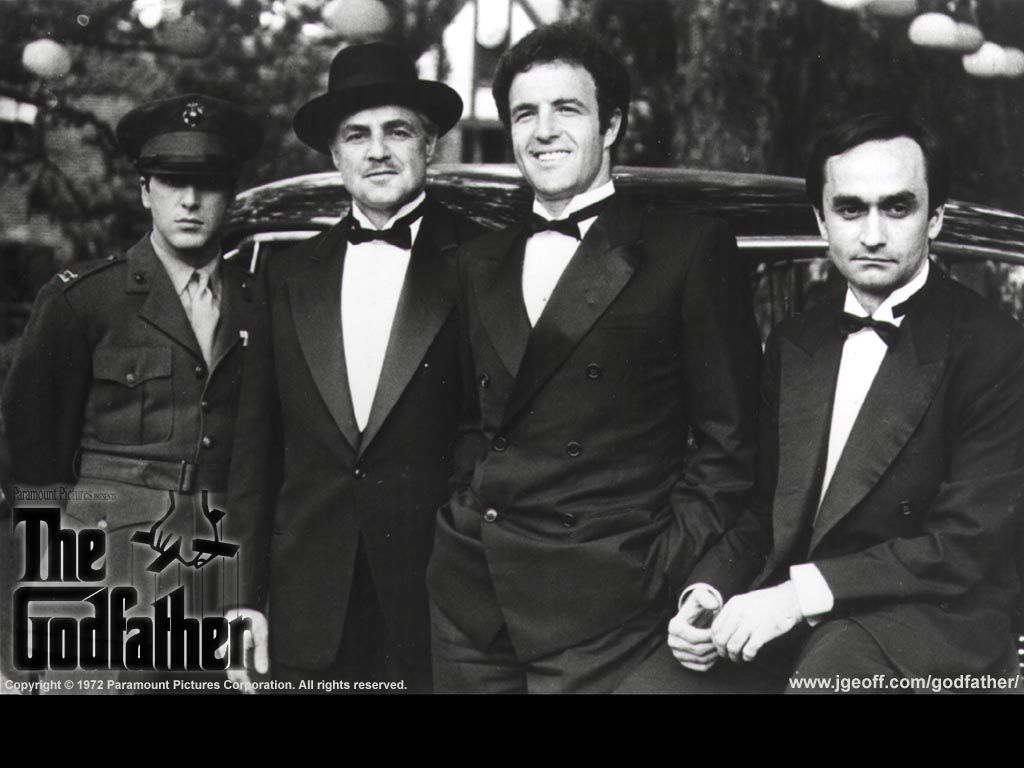
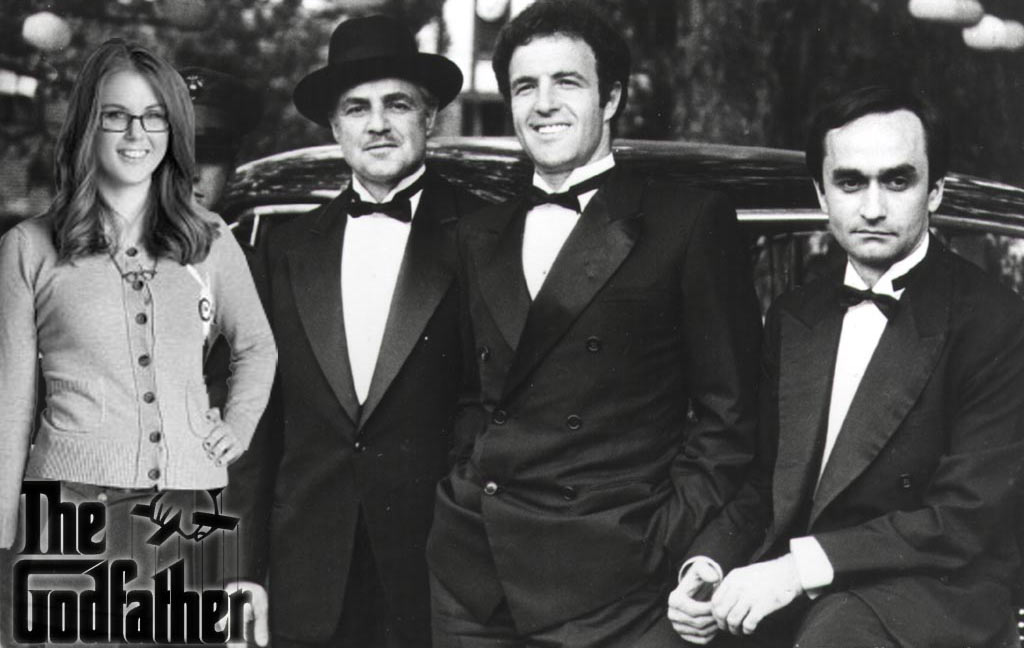
oh boy

diff --git a/index.html b/index.html
@@ -85,10 +85,30 @@
       <img src="img/php.jpeg"  style="position: absolute; width: 278px; top: 40px; right: 265px; -webkit-transform:rotate(-3deg);">
       <img src="img/django.jpeg"  style="position: absolute; width: 200px; top: 410px; right: 530px; -webkit-transform:rotate(8deg);">
       <img src="img/ruby.jpeg" style="position: absolute; width: 100px; top: 410px; right: 180px; -webkit-transform:rotate(0);">
-   </div>
+    </div>
+    
     <div class="step slide" data-x="6000" data-y="-700" style="padding:0;">
       <img src="img/wat2.png" style="width:100%;">
     </div>
+    
+    <div class="step slide" data-x="7000" data-y="-1500">
+      <h1 style="width: 500px;"><span class="lesson">Life Lesson #5:</span><br> Get onto a real-life project any way you can.</h1>
+      <img src="img/sp_rachel_c1.png" height="420" alt="" style="position: absolute; top: 300px; right: 0;">
+      <img src="img/sp_rachel_c2.png" height="420" alt="" style="position: absolute; top: 300px; right: 0;">
+    </div>
+    
+    <div class="step slide" data-x="8000" data-y="-1500">
+      <h1><span class="lesson">Life Lesson #6:</span><br> Your resume can be aspirational.</h1>
+      <h2>If you want to do something, try it and tell people you&rsquo;re trying.</h2>
+      <img src="img/4qx0.jpeg" style="position: absolute; width: 400px; bottom: 0; right: 0;">
+    </div>
+    
+    <div class="step slide" data-x="9000" data-y="-1500">
+      <h1 style="font-size: 40px; display:inline;"><span class="lesson">Life Lesson #7:</span><br> There are people who want to help you. <h2 style="padding-top: 0; display:inline;">Tap into the Developer Mafia.</h2></h1>
+      
+      <img src="img/The_Godfather_3.jpg" width="100%" alt="" style="margin-top: 20px;">
+    </div>
+    
     <!--
         
         This is an example of step element being scaled.
@@ -178,13 +198,13 @@
     </div>
     
     
-    <div class="step slide" data-x="9000" data-y="-1500">
+    <div class="step slide" data-x="10000" data-y="-1500">
       <h1><span class="lesson">Life Lesson #8:</span><br> Keep learning.</h1>
       <h2>Besides, everyone else is just pretending they already know.</h2>
       <img src="img/b7e.jpg" style="position: absolute; top: 340px; right: 60px; -webkit-transform:rotate(-5deg);">
     </div>
     
-    <div class="step slide" data-x="10000" data-y="-1500" style="padding: 0;">
+    <div class="step slide" data-x="11000" data-y="-1500" style="padding: 0;">
       <img src="img/IMG00086-20100327-1628.jpg" width="1024" height="768" alt="" style="width: 100%; height: 100%; position: absolute;">
       <div style="padding: 40px 200px 40px 120px; position: absolute;">
         <h1 style="color: #fff; text-shadow: -1px -1px 2px rgba(100,100,100,0.5); ">Please follow us<br> on Twitter.</h1>
